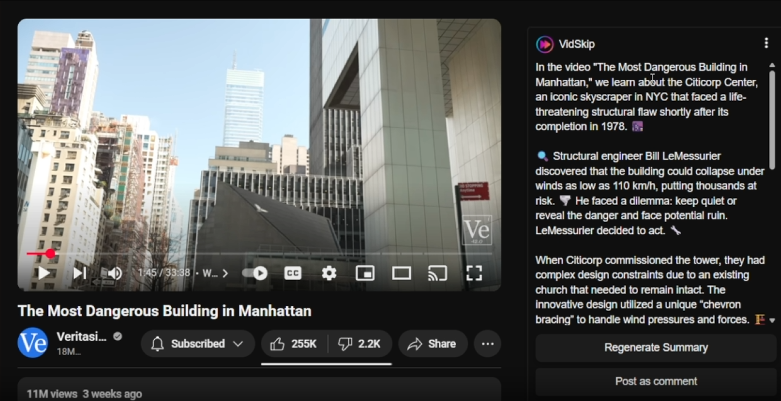
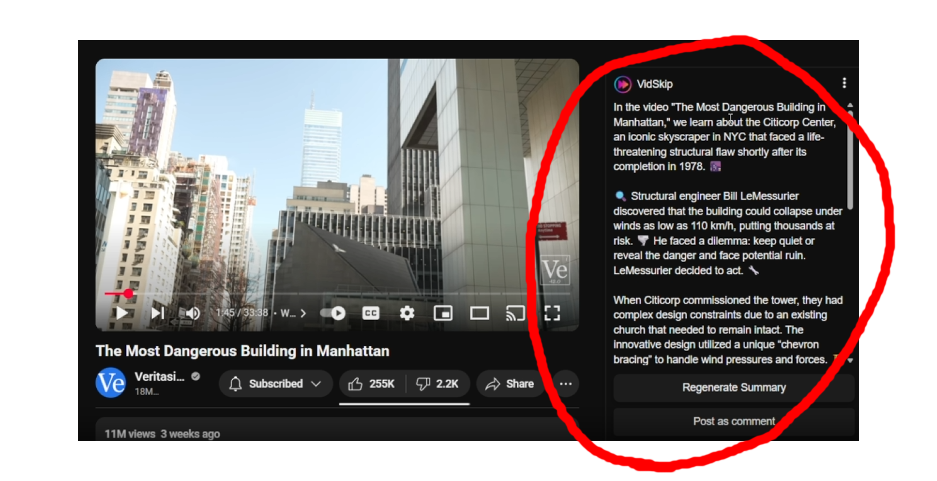
lol

diff --git a/app/upgrade/page.js b/app/upgrade/page.js
@@ -4,7 +4,7 @@ import React, { useState, useEffect, useRef  } from 'react';
 import { useSession, signIn, signOut } from 'next-auth/react';
 import { SessionProvider } from 'next-auth/react';
 import { loadStripe, Stripe, StripeError } from '@stripe/stripe-js';
-
+import styles from '../spinner.module.css';
 
 const stripePromise = loadStripe(process.env.NEXT_PUBLIC_STRIPE_PUBLISHABLE_KEY);
 
@@ -34,11 +34,12 @@ function Upgrade() {
 
   const fetchUserData = async () => {
     if (session) {
-        fetch("/api/get-user-credits")
+        fetch("/api/get-user")
           .then((res) => res.json())
           .then((data) => {
             if (data.message) {
               console.error(data.message);
+              window.location.href = "/billing";
             } else {
               setUserData(data);
               buyPlan('price_1QE9U3GSOkYdeBqyscUXkjim');
@@ -47,33 +48,6 @@ function Upgrade() {
           console.log(JSON.stringify(session.user, null, 2));
       }
   }
-
-
-  const manageSub = async (subscriptionId, stripePriceId) => {
-    const stripe = await stripePromise;
-  
-    const response = await fetch('/api/show-stripe-portal', {
-      method: 'POST',
-      headers: {
-        'Content-Type': 'application/json',
-      },
-      body: JSON.stringify({ customerID: userData.stripeCustomerId }),
-    });
-  
-    const session = await response.json();
-    //console.log(JSON.stringify(session));
-    if (!session.error) {
-      //if(stripePriceId) window.location.href = session.url+`/subscriptions/${subscriptionId}/preview/${stripePriceId}`;
-      window.location.href = session.url;
-    }
-    // Redirect to Stripe Checkout
-    //const result = await stripe.red({ sessionId: session.id });
-  
-    // if (result.error) {
-    //   console.error(result.error.message);
-    // }
-  }
-
 
     const buyPlan = async (plan) => {
     
@@ -103,5 +77,13 @@ function Upgrade() {
     
     }
 
-    return <div/>;
+    return (
+    //center
+    <div className="flex flex-col items-center justify-center h-screen ">
+      <div className={styles.spinnerContainer}>
+        <div className={styles.spinner2}></div>
+      </div>
+    </div>
+  
+)
 }

diff --git a/app/page.tsx b/app/page.tsx
@@ -7,10 +7,12 @@ import { useSession, signIn, signOut } from 'next-auth/react';
 import { SubscriptionCard } from '@/components/billing/subscription-card';
 import { FreeCard } from '@/components/billing/free-card';
 
-
 export default function Home() {
 
   const { data: session, status } = useSession(); 
+
+
+
 
   return (
     <div className="flex flex-col gap-20 items-center justify-center">
@@ -31,11 +33,11 @@ export default function Home() {
                 Get Started
               </Button>
             )}*/}
-            {session && (
+            {/* {session && (
               <Button size="lg" asChild>
                 <Link href="/billing">Dashboard</Link>
               </Button>
-            )} 
+            )}  */}
             <Button size="lg" asChild>
                 <Link href="/billing">Download for free</Link>
               </Button>
@@ -179,7 +181,7 @@ export default function Home() {
             </div>    */}
             <FreeCard onSubscribe={null}/>
             {/* {session ? <FreeCard onSubscribe={null}/> : <FreeCard onSubscribe={() => {signIn(undefined, {callbackUrl:'/billing'})}}/>} */}
-            <SubscriptionCard onSubscribe={session?()=>{window.location.href='/billing'}:() => {signIn(undefined, {callbackUrl:'/billing'})}}/> 
+            <SubscriptionCard onSubscribe={session?()=>{window.location.href='/upgrade'}:() => {signIn(undefined, {callbackUrl:'/upgrade'})}}/> 
 
           </div>
         </div>

diff --git a/components/layout/footer.tsx b/components/layout/footer.tsx
@@ -50,11 +50,13 @@ export default function Footer() {
                   Help Center
                 </Link>
               </li> */}
-              <li>
+              {/* <li>
                 <Link href="/contact" className="text-sm text-muted-foreground hover:text-foreground transition-colors">
                   Contact Us
                 </Link>
-              </li>
+              </li> */}
+              <li className="text-sm text-muted-foreground hover:text-foreground transition-colors">Email: info@vidskip.pro</li>
+              <li className="text-sm text-muted-foreground hover:text-foreground transition-colors">Discord: jazza3050</li>
             </ul>
           </div>
 

diff --git a/components/layout/header.tsx b/components/layout/header.tsx
@@ -53,7 +53,7 @@ export default function Header() {
   const navItems = [
     { title: 'Home', href: '/' },
     // { title: 'Settings', href: '/settings' },
-    { title: session?'Billing':'Pricing', href: '/billing' },
+    { title: session?'Billing':'Pricing', href: session?'/billing':'/#pricing' },
     // { title: 'Account', href: '/account' },
   ];
 
